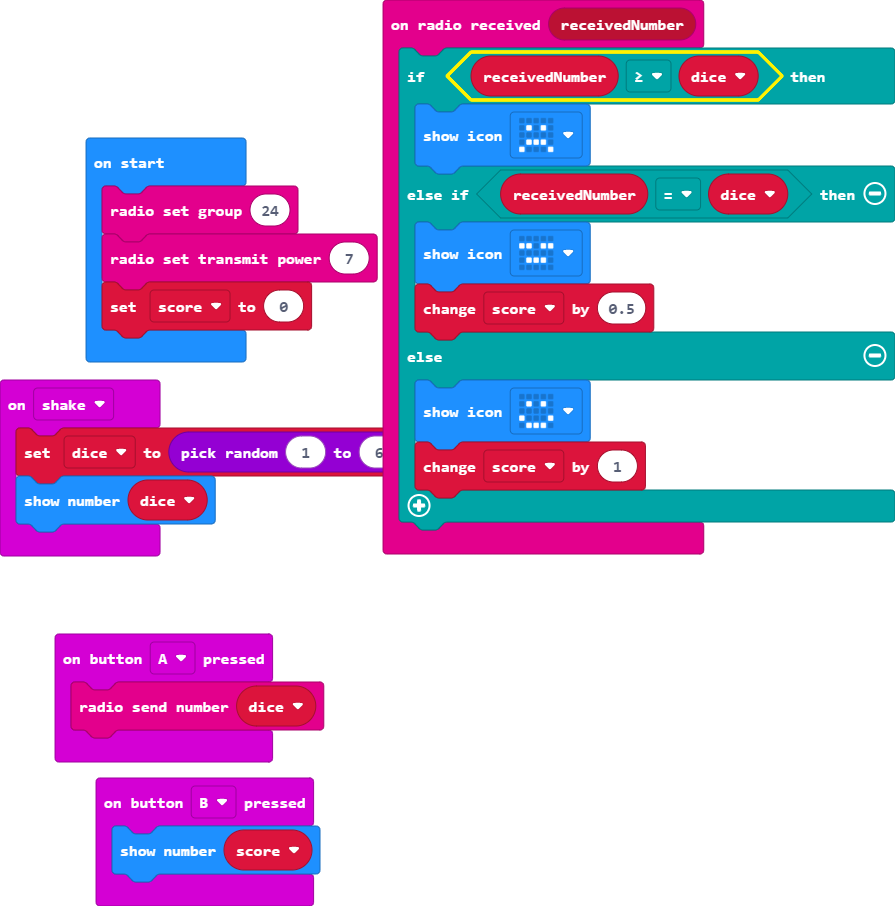
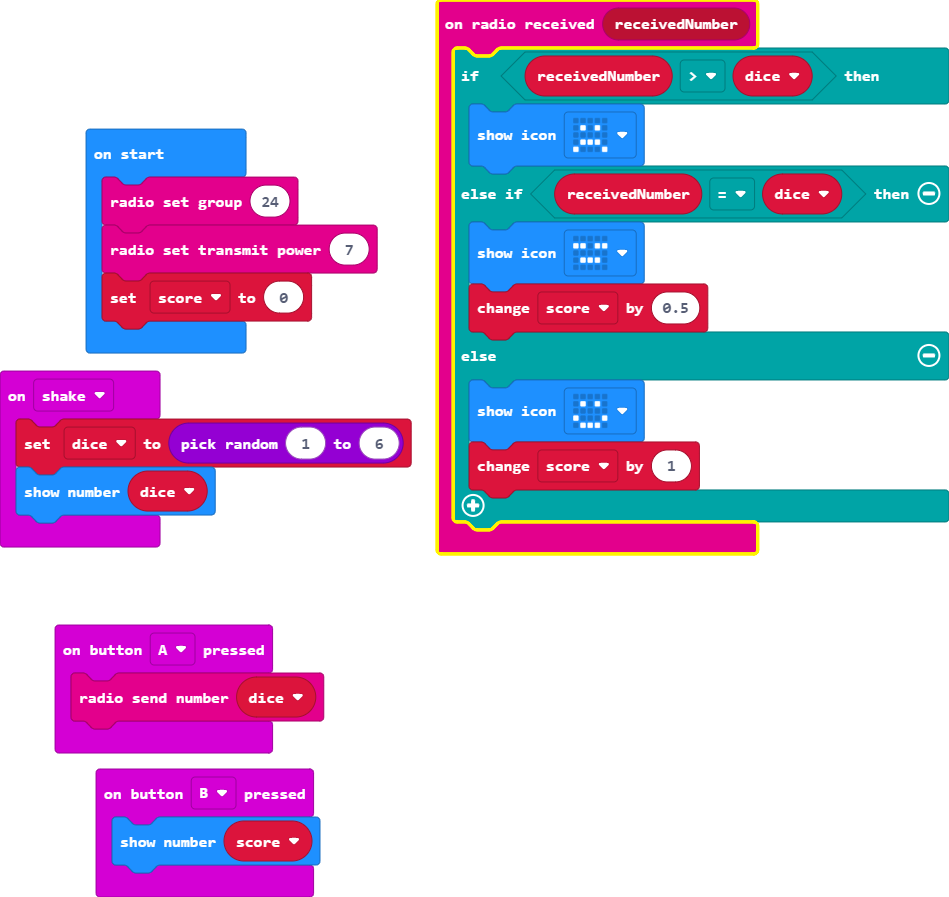
Update main.blocks, main.ts

Changed region(s): [[0.0, 0.0, 1.0, 0.6243], [0.0302, 0.6867, 0.362, 1.0]]

diff --git a/main.ts b/main.ts
@@ -1,5 +1,5 @@
 radio.onReceivedNumber(function (receivedNumber) {
-    if (receivedNumber >= dice) {
+    if (receivedNumber > dice) {
         basic.showIcon(IconNames.Sad)
     } else if (receivedNumber == dice) {
         basic.showIcon(IconNames.Asleep)
